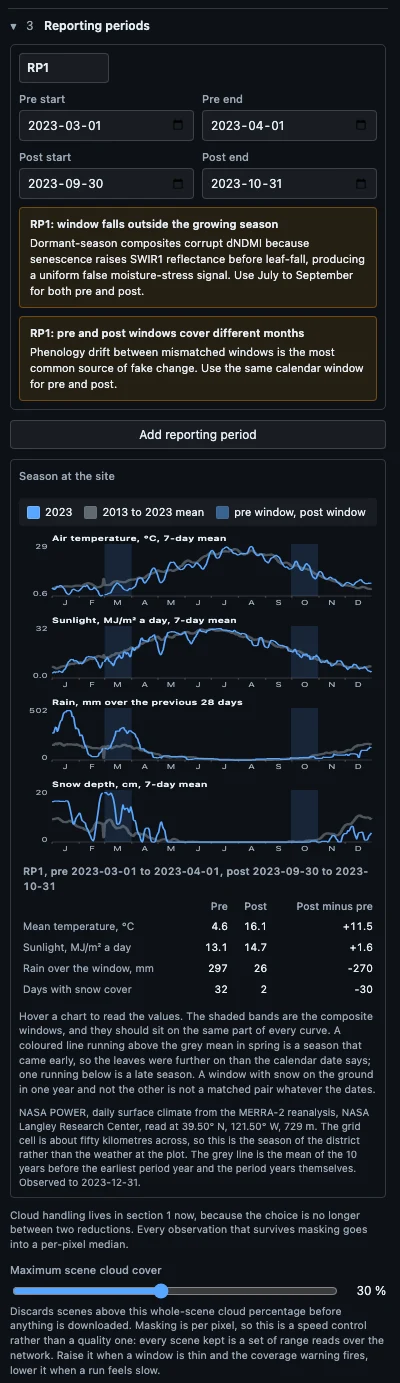
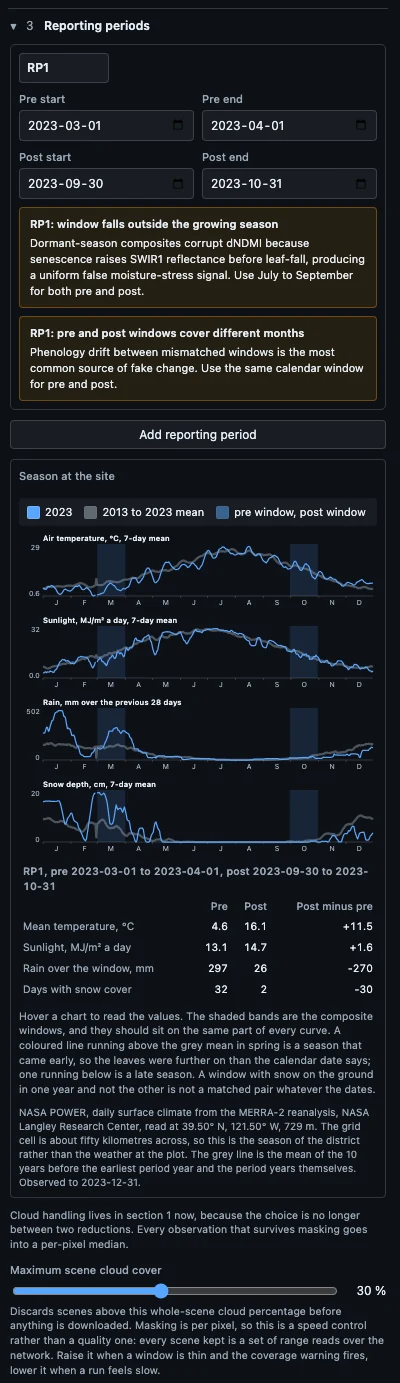
Draw the season charts at the width they are given, so a wide panel does not stretch the text
The chart carried a fixed 260 unit viewBox scaled to the panel, which drew the
labels half again as wide in the docked panel and twice as wide in a floating
one. It now draws at the measured width and redraws when that changes, and the
four guide figures were captured again from the corrected chart.

The guide now names Hardisky, Klemas and Smart (1983) as the origin of the
index the tool runs, following the SOP library's reference notes, and says
why Gao (1996) is a different measurement.

Version 0.13.1.

diff --git a/src/panel/climograph-plot.ts b/src/panel/climograph-plot.ts
@@ -6,7 +6,8 @@ import {
 } from "../reference/climate";
 import { svgEl } from "./dom";
 
-const WIDTH = 260;
+/** Drawn width when the panel has not been measured yet. */
+const DEFAULT_WIDTH = 260;
 const HEIGHT = 74;
 const PAD_LEFT = 24;
 const PAD_RIGHT = 4;
@@ -55,13 +56,20 @@ const MONTH_LETTERS = ["J", "F", "M", "A", "M", "J", "J", "A", "S", "O", "N", "D
  * point of the season, and did the season run early or late in either year.
  * Everything else is left off.
  */
-export function renderClimographPanel(options: ClimographPanelOptions): SVGSVGElement {
+export function renderClimographPanel(
+  options: ClimographPanelOptions,
+  width: number = DEFAULT_WIDTH,
+): SVGSVGElement {
   const { lines, reference, spans, floorAtZero } = options;
+  const WIDTH = Math.max(160, Math.round(width));
 
+  // The viewBox matches the drawn width, so nothing is stretched. A fixed
+  // viewBox scaled to the panel would draw the text twice as wide in a
+  // floating panel as in the docked one.
   const svg = svgEl("svg", {
     class: "dc-climograph",
     viewBox: `0 0 ${WIDTH} ${HEIGHT}`,
-    preserveAspectRatio: "none",
+    preserveAspectRatio: "xMinYMin meet",
     role: "img",
     "aria-label": `${options.title}, ${options.unit}, by day of year`,
   });
@@ -249,4 +257,32 @@ export function renderClimographPanel(options: ClimographPanelOptions): SVGSVGEl
   });
 
   return svg;
+}
+
+/**
+ * A chart that follows the width of the element holding it.
+ *
+ * The panel is 380 px docked and 460 px floating, and a colleague may drag
+ * it wider still, so the chart is drawn at the width it is given and drawn
+ * again when that changes.
+ */
+export function mountClimographPanel(options: ClimographPanelOptions): HTMLElement {
+  const wrap = document.createElement("div");
+  wrap.className = "dc-climograph-wrap";
+  let drawnAt = 0;
+  const draw = (width: number) => {
+    const target = width > 0 ? width : DEFAULT_WIDTH;
+    if (Math.abs(target - drawnAt) < 4) return;
+    drawnAt = target;
+    while (wrap.firstChild) wrap.removeChild(wrap.firstChild);
+    wrap.appendChild(renderClimographPanel(options, target));
+  };
+  draw(wrap.clientWidth);
+  if (typeof ResizeObserver !== "undefined") {
+    const observer = new ResizeObserver((entries) => {
+      for (const entry of entries) draw(entry.contentRect.width);
+    });
+    observer.observe(wrap);
+  }
+  return wrap;
 }

diff --git a/src/panel/panel.ts b/src/panel/panel.ts
@@ -84,7 +84,7 @@ import {
 import { GeoLibreAppAPI } from "../types/geolibre";
 import { button, clear, el, field, formatDuration, formatHectares, input, select } from "./dom";
 import { renderHistogramPlot } from "./histogram-plot";
-import { renderClimographPanel, yearColour } from "./climograph-plot";
+import { mountClimographPanel, yearColour } from "./climograph-plot";
 
 const OPEN_SECTIONS_KEY = "tuvsud.disturbance.openSections";
 
@@ -1086,7 +1086,7 @@ export class DisturbancePanel {
     ) => {
       const smoothed = smooth(series.days, metric, width, mode);
       block.appendChild(
-        renderClimographPanel({
+        mountClimographPanel({
           title,
           unit,
           lines: linesByYear(series.days, smoothed, years),

diff --git a/src/index.ts b/src/index.ts
@@ -67,7 +67,7 @@ function helpMenuItems(app: GeoLibreAppAPI): GeoLibreToolbarMenuItem[] {
 const plugin: GeoLibrePlugin = {
   id: PANEL_ID,
   name: "Disturbance Check",
-  version: "0.13.0",
+  version: "0.13.1",
   // Neither a Cloud project nor an OAuth client is a parameter any more.
   // Nothing this plugin reads requires an account, so the only thing left
   // worth linking to is a guide page.

diff --git a/src/style.css b/src/style.css
@@ -951,6 +951,12 @@ select.dc-input {
   border-radius: 4px;
 }
 
+.dc-climograph-wrap {
+  display: block;
+  width: 100%;
+  min-height: 74px;
+}
+
 .dc-climograph {
   display: block;
   width: 100%;

diff --git a/docs/season-matching.md b/docs/season-matching.md
@@ -50,9 +50,12 @@ rate of senescence read from index time series since the early AVHRR record
 
 **NDMI reads leaf water.** Liquid water in the leaf absorbs shortwave infrared
 at 1.6 micrometres, Sentinel-2 band 11, so a well-watered canopy is dark there
-and a dry one is bright (Gao 1996; Ceccato et al. 2001). NDMI pairs that band
-with the near infrared and tracks canopy water content, which is what makes it
-useful for harvest and thinning (Wilson and Sader 2002; Jin and Sader 2005).
+and a dry one is bright (Ceccato et al. 2001). NDMI pairs that band with the
+near infrared, the normalised difference infrared index of Hardisky et al.
+(1983), and tracks canopy water content, which is what makes it useful for
+harvest and thinning (Wilson and Sader 2002; Jin and Sader 2005). Gao's (1996)
+water index is often named as its origin but pairs two shorter bands, 0.86 and
+1.24 micrometres, and is a different measurement.
 The same sensitivity makes it the index most easily fooled by season. Drought
 raises shortwave infrared reflectance while the leaves are still on, so a dry
 August reads as moisture stress against a wet one. Senescence raises it before
@@ -318,6 +321,11 @@ Griffiths, P., van der Linden, S., Kuemmerle, T. and Hostert, P. (2013). A
 pixel-based Landsat compositing algorithm for large area land cover mapping.
 IEEE Journal of Selected Topics in Applied Earth Observations and Remote
 Sensing 6(5), 2088 to 2101. https://doi.org/10.1109/JSTARS.2012.2228167
+
+Hardisky, M. A., Klemas, V. and Smart, R. M. (1983). The influence of soil
+salinity, growth form, and leaf moisture on the spectral radiance of Spartina
+alterniflora canopies. Photogrammetric Engineering and Remote Sensing 49(1),
+77 to 83.
 
 Jin, S. and Sader, S. A. (2005). Comparison of time series tasseled cap
 wetness and the normalized difference moisture index in detecting forest
